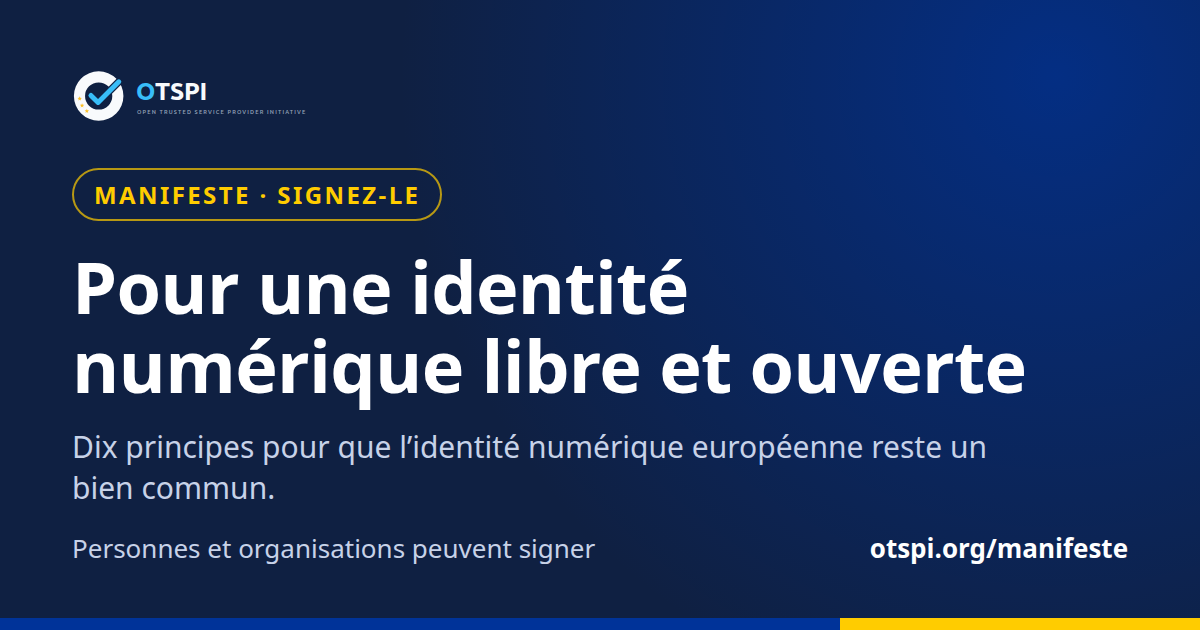
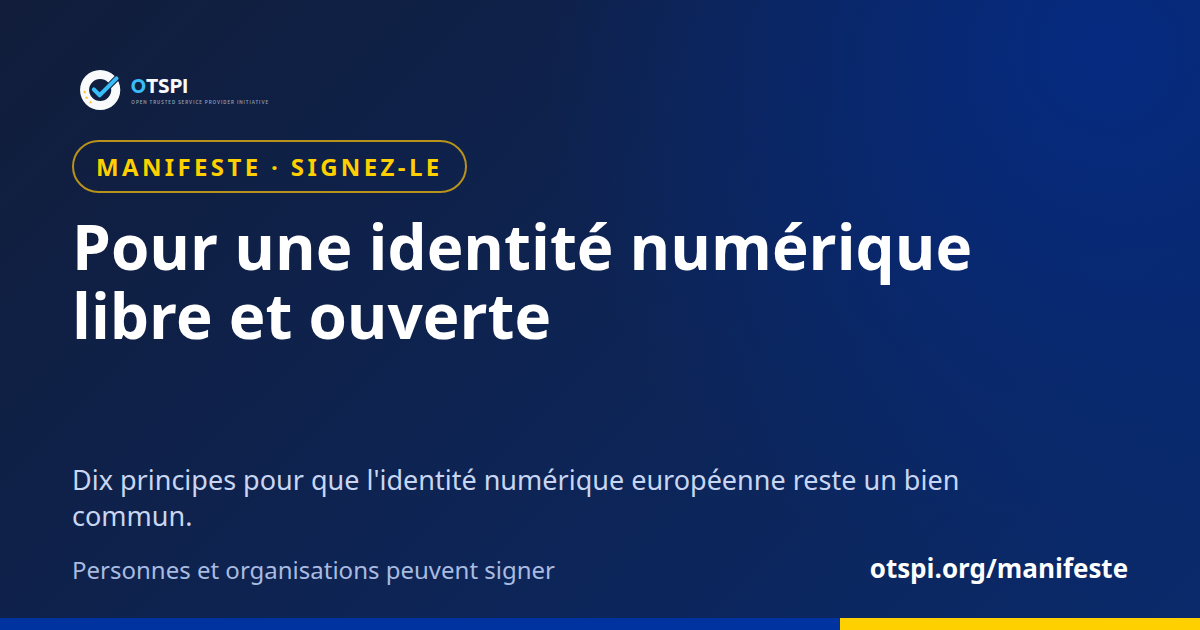
feat: images de partage du manifeste générées par build_og.py, vocabulaire « digital commons »

diff --git a/scripts/build_og.py b/scripts/build_og.py
@@ -1,10 +1,10 @@
 #!/usr/bin/env python3
 # SPDX-License-Identifier: EUPL-1.2
-"""Génère les images de partage de l'accueil (1200 × 630) : assets/og/og-fr.png et og-en.png.
+"""Génère les images de partage (1200 × 630) : accueil et manifeste, en français et en anglais, dans assets/og/.
 
 L'image est composée en HTML puis capturée par Chrome ou Chromium en mode headless ; la variable
-d'environnement CHROME permet d'imposer le binaire. Le titre et le sous-titre doivent rester
-identiques à ceux du hero de la page d'accueil.
+d'environnement CHROME permet d'imposer le binaire. Les textes de l'accueil doivent rester
+alignés sur ceux du hero de la page d'accueil, ceux du manifeste sur la page du manifeste.
 
 Usage :
     python3 scripts/build_og.py
@@ -21,13 +21,20 @@ ROOT = Path(__file__).resolve().parent.parent
 OUT = ROOT / "assets" / "og"
 LOGO = ROOT / "assets" / "logo-horizontal-transparent-dark.svg"
 
-TEXTS = {
-    "fr": ("Livre blanc", "Et si la confiance numérique européenne devenait un bien commun&nbsp;?",
-           "La preuve qualifiée eIDAS, ouverte, automatisable et sans péage. Un pilote tourne déjà.",
-           "Consultation publique · appel à partenaires"),
-    "en": ("White paper", "What if European digital trust became a shared resource?",
-           "Qualified eIDAS proof, open, automatable and toll-free. A pilot already runs.",
-           "Public consultation · call for partners"),
+# Fichier de sortie : (pastille, titre, sous-titre, ligne de bas de page, adresse affichée)
+IMAGES = {
+    "og-fr.png": ("Livre blanc", "Et si la confiance numérique européenne devenait un bien commun&nbsp;?",
+                  "La preuve qualifiée eIDAS, ouverte, automatisable et sans péage. Un pilote tourne déjà.",
+                  "Consultation publique · appel à partenaires", "otspi.org"),
+    "og-en.png": ("White paper", "What if European digital trust became a shared resource?",
+                  "Qualified eIDAS proof, open, automatable and toll-free. A pilot already runs.",
+                  "Public consultation · call for partners", "otspi.org"),
+    "og-manifeste.png": ("Manifeste · signez-le", "Pour une identité numérique libre et ouverte",
+                         "Dix principes pour que l'identité numérique européenne reste un bien commun.",
+                         "Personnes et organisations peuvent signer", "otspi.org/manifeste"),
+    "og-manifesto.png": ("Manifesto · sign it", "For a free and open digital identity",
+                         "Ten principles to keep European digital identity a digital commons.",
+                         "Individuals and organisations can sign", "otspi.org/en/manifesto"),
 }
 
 PAGE = """<!doctype html><html><head><meta charset="utf-8"><style>
@@ -48,7 +55,7 @@ h1{position:absolute;left:72px;top:212px;width:1056px;margin:0;font-size:62px;li
 <div class="badge">{{badge}}</div>
 <h1>{{title}}</h1>
 <div class="sub">{{sub}}</div>
-<div class="foot">{{foot}}</div><div class="url">otspi.org</div>
+<div class="foot">{{foot}}</div><div class="url">{{url}}</div>
 <div class="bar"></div><div class="bar2"></div>
 </body></html>"""
 
@@ -68,13 +75,13 @@ def main():
     with tempfile.TemporaryDirectory() as work:
         work = Path(work)
         shutil.copy(LOGO, work / "logo.svg")
-        for lang, (badge, title, sub, foot) in TEXTS.items():
-            page = work / f"{lang}.html"
+        for name, (badge, title, sub, foot, url) in IMAGES.items():
+            page = work / f"{Path(name).stem}.html"
             html = PAGE
-            for key, value in (("badge", badge), ("title", title), ("sub", sub), ("foot", foot)):
+            for key, value in (("badge", badge), ("title", title), ("sub", sub), ("foot", foot), ("url", url)):
                 html = html.replace("{{" + key + "}}", value)
             page.write_text(html, encoding="utf-8")
-            output = OUT / f"og-{lang}.png"
+            output = OUT / name
             with tempfile.TemporaryDirectory() as profile:
                 cmd = [chrome, "--headless=new", "--disable-gpu", "--hide-scrollbars", f"--user-data-dir={profile}",
                        "--allow-file-access-from-files", "--window-size=1200,630", f"--screenshot={output}", page.as_uri()]

diff --git a/README.md b/README.md
@@ -103,7 +103,7 @@ Les exports CSV et le fichier de retraits contiennent des données personnelles 
 
 ## Images de partage
 
-`python3 scripts/build_og.py` régénère `assets/og/og-fr.png` et `og-en.png` (1200 × 630 px, utilisées par les balises Open Graph et Twitter de l'accueil ; Chrome ou Chromium requis). Le titre et le sous-titre du script doivent rester alignés sur le hero de l'accueil. Les images du manifeste (`og-manifeste.png`, `og-manifesto.png`) ne sont pas générées par ce script. Les réseaux sociaux mettent les aperçus en cache : après un changement, forcer le rafraîchissement depuis leurs outils de débogage.
+`python3 scripts/build_og.py` régénère les quatre images de partage de `assets/og/` (`og-fr.png`, `og-en.png` pour l'accueil, `og-manifeste.png`, `og-manifesto.png` pour le manifeste ; 1200 × 630 px, utilisées par les balises Open Graph et Twitter ; Chrome ou Chromium requis). Les textes de l'accueil doivent rester alignés sur le hero de la page d'accueil, ceux du manifeste sur la page du manifeste. Les réseaux sociaux mettent les aperçus en cache : après un changement, forcer le rafraîchissement depuis leurs outils de débogage.
 
 ## Plaquette d'une page
 
